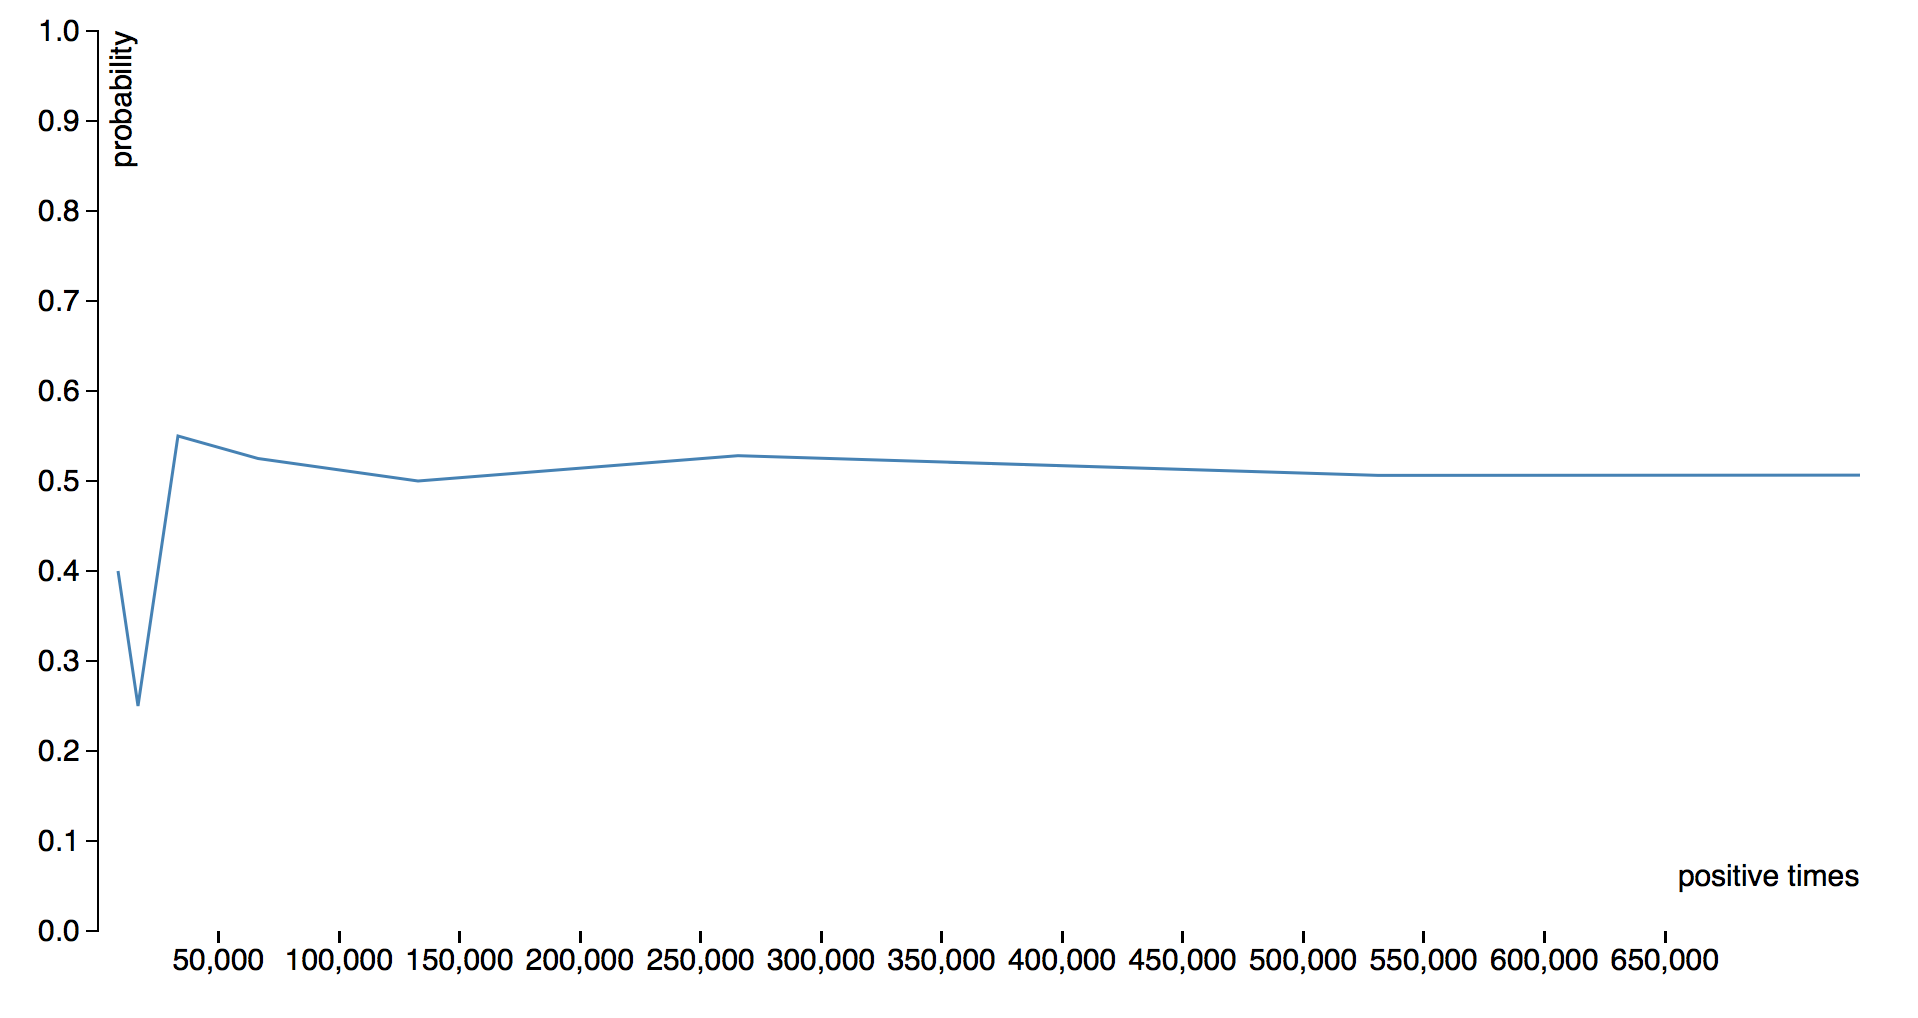
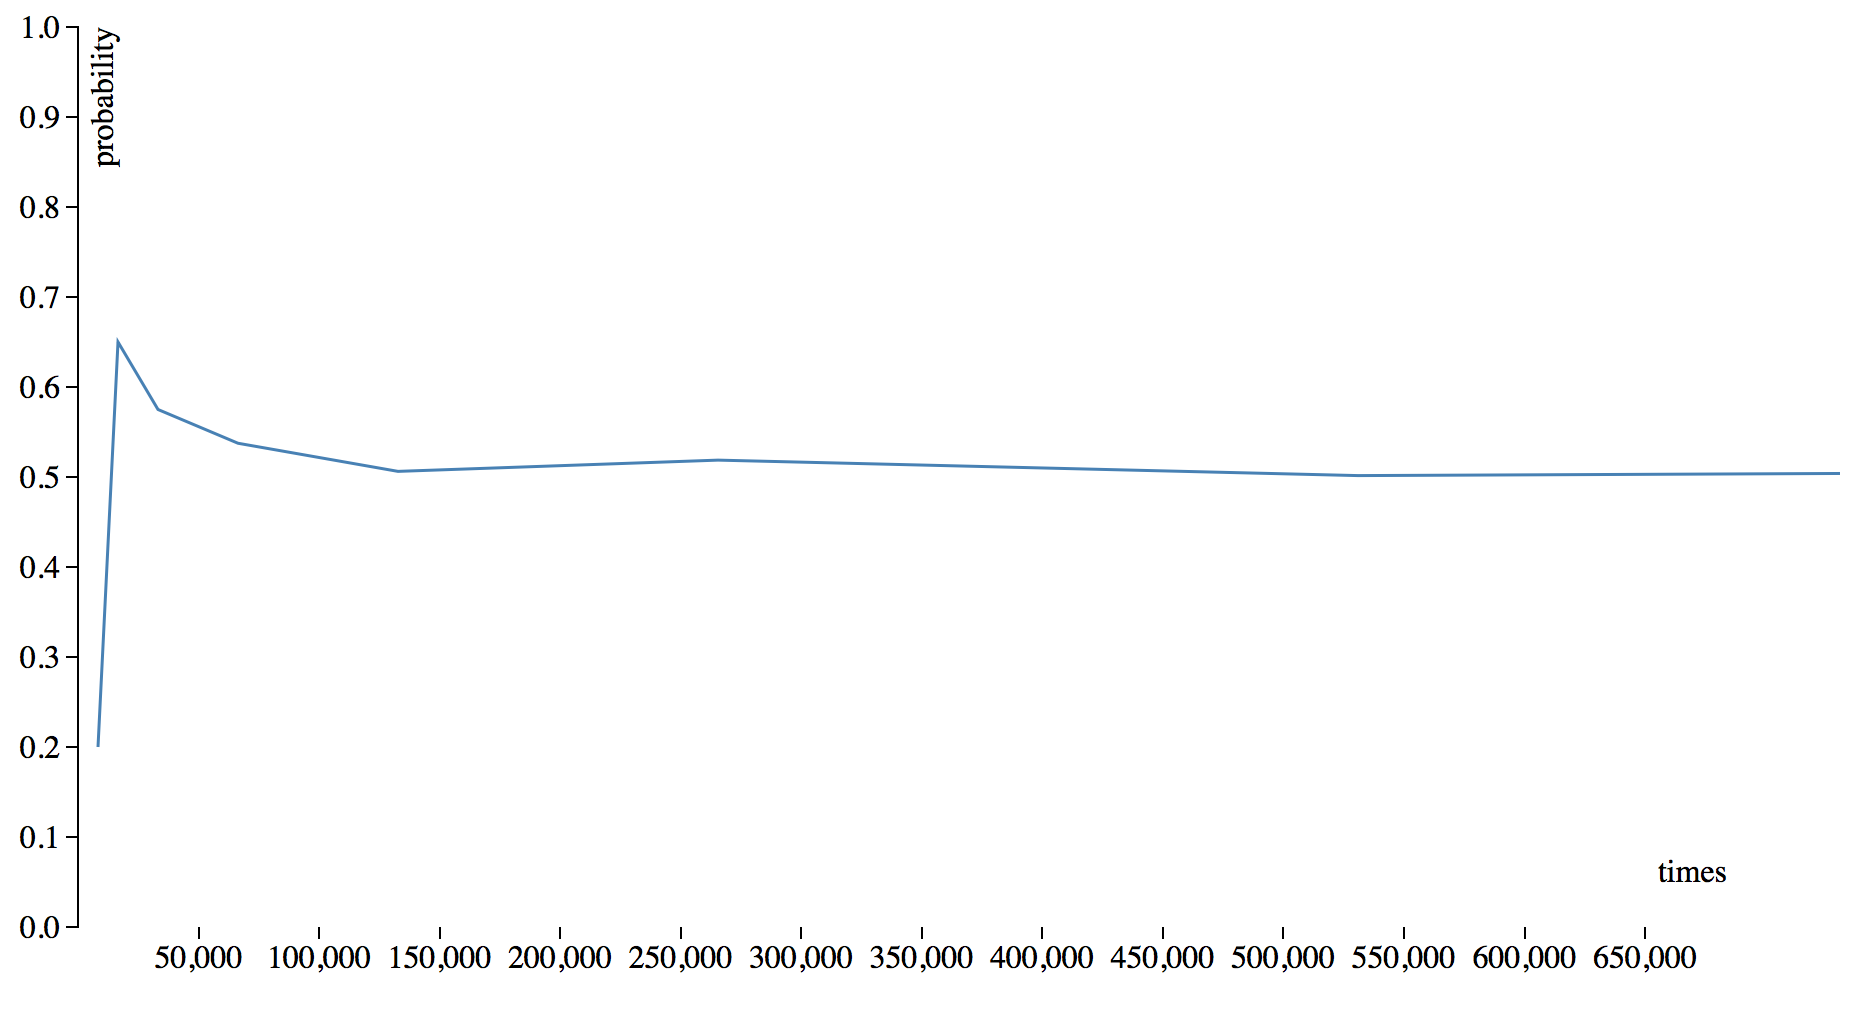
fixed positive word

diff --git a/the_law_of_large_numbers.html b/the_law_of_large_numbers.html
@@ -87,7 +87,7 @@
         .attr("transform", "translate(" + width * .1 + "," + height * 1.03 + ")")
         .call(xAxis)
         .append("text")
-        .text("positive times")
+        .text("times")
         .attr("transform", "translate(" + width + "," + height * -.05 + ")");
 
       svg.append("g")
